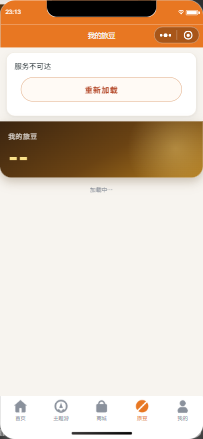
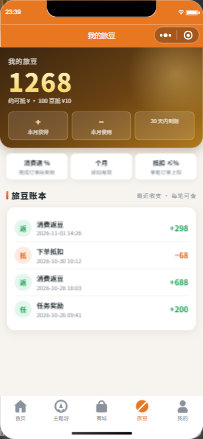
fix: 全站演示兜底 + 质量门禁（后端不可达时不再出现服务不可达）
- api.js FALLBACK 扩展：bean/member/ledger/orders/identity/notes/promoter（字段严格对齐页面 wx:key 与渲染字段）
- 旅豆/我的/我的订单/数字身份/创作中心/推广中心/笔记页接入兜底（此前只有首页/主题游/商城）
- 新增 test/quality-gate.mjs：把 apiBase 指向死端口模拟真机断网，11 页逐条断言内容就绪 + 字段完整 + NaN 红线
- 修正演示数据字段错配：ledger 用 direction/biz_type/tx_no/created_at，orders 用 order_no/amount_pay/days_desc（原 amount 导致 ¥NaN）

diff --git a/mini-a/pages/bean/index.js b/mini-a/pages/bean/index.js
@@ -6,16 +6,19 @@ Page({
   onShow() {
     this.setData({ error: '' })
     siteData.get().then((s) => this.setData({ beanIntro: s.bean_intro || '' }))
-    api.getBean().then(bean => this.setData({ bean })).catch(e => this.setData({ bean: null, error: e.msg || '加载失败' }))
-    // 等级、门槛、加成与权益都来自服务端（参数中心「会员等级体系」）
-    api.getMe().then((m) => {
-      const lv = m.level || {}
-      this.setData({
-        level: m.memberLevel || 1, levelPct: lv.pct || 0, levelName: lv.name || '', levelArt: lv.art || '',
-        levelHint: lv.next ? '成长值 ' + Number(lv.points).toLocaleString() + '，再积累 ' + Number(lv.next.gapPoints).toLocaleString() + ' 升级「' + lv.next.name + '」' : '成长值 ' + Number(lv.points || 0).toLocaleString() + '，已是最高等级',
-        levels: (lv.levels || []).map((l) => ({ ...l, need: l.points ? '成长值 ' + Number(l.points).toLocaleString() : '注册即享', perkText: (l.perks || []).join(' · ') })),
-      })
-    }).catch(() => {})
-    api.request('/c/bean/ledger').then((ledger) => this.setData({ ledger: ledger.slice(0, 20) })).catch(() => {})
+    api.getBean().then(bean => this.setData({ bean }))
+      .catch(() => { this.setData({ bean: api.FALLBACK.bean }); wx.showToast({ title: '演示模式（后端未连接）', icon: 'none' }) })
+    // 等级、门槛、加成与权益都来自服务端（参数中心「会员等级体系」）；后端不可达时用演示会员
+    api.getMe().then((m) => this.fillMember(m)).catch(() => this.fillMember(api.FALLBACK.member))
+    api.request('/c/bean/ledger').then((ledger) => this.setData({ ledger: (ledger || []).slice(0, 20) }))
+      .catch(() => this.setData({ ledger: api.FALLBACK.ledger }))
+  },
+  fillMember(m) {
+    const lv = (m && m.level) || {}
+    this.setData({
+      level: (m && m.memberLevel) || 1, levelPct: lv.pct || 0, levelName: lv.name || '', levelArt: lv.art || '',
+      levelHint: lv.next ? '成长值 ' + Number(lv.points).toLocaleString() + '，再积累 ' + Number(lv.next.gapPoints).toLocaleString() + ' 升级「' + lv.next.name + '」' : '成长值 ' + Number(lv.points || 0).toLocaleString() + '，已是最高等级',
+      levels: (lv.levels || []).map((l) => ({ ...l, need: l.points ? '成长值 ' + Number(l.points).toLocaleString() : '注册即享', perkText: (l.perks || []).join(' · ') })),
+    })
   }
 })

diff --git a/mini-a/utils/api.js b/mini-a/utils/api.js
@@ -66,6 +66,35 @@ const FALLBACK = {
     { k: 'all', n: '全部' }, { k: 'yoga', n: '瑜伽之旅' }, { k: 'sister', n: '姐姐系列' },
     { k: 'script', n: '剧本闯关' }, { k: 'family', n: '亲子主题' }, { k: 'red', n: '红色文旅' },
   ],
+  // ===== 以下为「后端不可达」时的演示数据集（真机演示/断网兜底）=====
+  bean: { balance: 1268, totalIn: 3268, totalOut: 2000, expiring: 0, expiringDate: '' },
+  member: {
+    nickname: '旅友 3288', memberLevel: 2, avatarUrl: '',
+    level: { name: '旅行家', pct: 64, art: '', points: 3268, next: { name: '城市探索官', gapPoints: 1732 } },
+  },
+  ledger: [
+    { tx_no: 'T2026110101', direction: 1, biz_type: 1, amount: 298, created_at: '2026-11-01 14:26' },
+    { tx_no: 'T2026103001', direction: 0, biz_type: 4, amount: 68, created_at: '2026-10-30 10:12' },
+    { tx_no: 'T2026102801', direction: 1, biz_type: 1, amount: 688, created_at: '2026-10-28 18:03' },
+    { tx_no: 'T2026102601', direction: 1, biz_type: 2, amount: 200, created_at: '2026-10-26 09:41' },
+  ],
+  orders: [
+    { order_no: 'WL20261101001', title: '朱家角剧本游 · 江南谜案', status: 30, days_desc: '1天 · 上海·青浦', qty: 1, amount_pay: 29800, created_at: '2026-11-01 14:26' },
+    { order_no: 'WL20261028002', title: '安吉瑜伽谷 · 2天1夜', status: 40, days_desc: '2天1夜 · 湖州·安吉', qty: 2, amount_pay: 137600, created_at: '2026-10-28 09:15' },
+  ],
+  identity: {
+    profile: { nickname: '旅友 3288', memberLevel: 2, levelName: '旅行家', growth: 3268 },
+    passes: [
+      { id: 1, name: '朱家角剧本游 · 通行凭证', status: 2, statusText: '已核销' },
+      { id: 2, name: '安吉瑜伽谷 · 山野通行', status: 1, statusText: '待使用' },
+    ],
+    attestations: [
+      { orderNo: 'WL20261028002', hash: '0x8f2c…a91d', anchored: true },
+      { orderNo: 'WL20261101001', hash: '0x3e71…c04b', anchored: true },
+    ],
+  },
+  notes: [],
+  promoter: { promoter: false, scene: '', customers: [] },
 }
 
 async function getTours(cat) {

diff --git a/mini-a/package-order/pages/orders/index.js b/mini-a/package-order/pages/orders/index.js
@@ -10,8 +10,17 @@ Page({
       await api.ensureLogin()
       const orders = await api.getOrders()
       this.setData({ orders: orders.map(o => ({ ...o, statusText: ({10:'待支付',20:'出票中',30:'待出行 · 待核销',40:'已核销',50:'已完成',60:'退款处理中',70:'已退款',90:'已关闭'})[o.status] || '处理中' })), loading: false, empty: orders.length === 0 })
-    } catch (e) { this.setData({ loading: false, empty: false, orders: [], error: e.msg || '订单加载失败，请重试' }) }
+    } catch (e) {
+      // 后端不可达（真机演示常见）：展示演示订单，避免出现"服务不可达"空屏
+      const ST = { 10: '待支付', 20: '出票中', 30: '待出行 · 待核销', 40: '已核销', 50: '已完成', 60: '退款处理中', 70: '已退款', 90: '已关闭' }
+      const demo = api.FALLBACK.orders.map(o => ({ ...o, cover: api.coverFor(o), statusText: ST[o.status] || '处理中' }))
+      this.setData({ loading: false, empty: false, orders: demo, demoMode: true })
+      wx.showToast({ title: '演示模式（后端未连接）', icon: 'none' })
+    }
     if (done) done()
   },
-  goDetail(e) { wx.navigateTo({ url: '/package-order/pages/order-detail/index?no=' + e.currentTarget.dataset.no }) },
+  goDetail(e) {
+    if (this.data.demoMode) return wx.showToast({ title: '演示订单，详情需连接后端', icon: 'none' })
+    wx.navigateTo({ url: '/package-order/pages/order-detail/index?no=' + e.currentTarget.dataset.no })
+  },
 })

diff --git a/mini-a/pages/me/index.js b/mini-a/pages/me/index.js
@@ -39,11 +39,12 @@ Page({
   },
   // 等级名与升级进度来自服务端（参数中心「会员等级体系」），页面里不写死
   loadMe() {
-    return api.getMe().then((m) => {
-      const lv = m.level || {}
-      const hint = lv.next ? '再积累 ' + Number(lv.next.gapPoints).toLocaleString() + ' 成长值升级「' + lv.next.name + '」' : '已是最高等级'
-      this.setData({ avatarUrl: m.avatarUrl || '', initial: String(m.nickname || '旅').trim().slice(0, 1) || '旅', user: { nickname: m.nickname, levelName: lv.name || '探索者', levelArt: lv.art || '', levelPct: lv.pct || 0, levelHint: hint } })
-    }).catch(() => {})
+    return api.getMe().then((m) => this.fillMe(m)).catch(() => this.fillMe(api.FALLBACK.member))
+  },
+  fillMe(m) {
+    const lv = (m && m.level) || {}
+    const hint = lv.next ? '再积累 ' + Number(lv.next.gapPoints).toLocaleString() + ' 成长值升级「' + lv.next.name + '」' : '已是最高等级'
+    this.setData({ avatarUrl: (m && m.avatarUrl) || '', initial: String((m && m.nickname) || '旅').trim().slice(0, 1) || '旅', user: { nickname: (m && m.nickname) || '旅友', levelName: lv.name || '探索者', levelArt: lv.art || '', levelPct: lv.pct || 0, levelHint: hint } })
   },
   async login() {
     try {

diff --git a/mini-a/package-content/pages/create/index.js b/mini-a/package-content/pages/create/index.js
@@ -14,7 +14,11 @@ Page({
       await api.ensureLogin()
       const [notes,reports]=await Promise.all([api.request('/c/notes'),api.request('/c/content-reports')])
       this.setData({loadError:'',notes:notes.map(n=>({...n,statusText:({0:'安全检测中',1:'人工审核中',2:'已发布',3:'未通过审核',4:'已下架'})[n.status]||'处理中',appealText:n.appeal_status==null?'':({0:'申诉复核中',1:'申诉通过，恢复展示',2:'申诉未通过，维持下架'})[n.appeal_status]})),reports:reports.map(r=>({...r,statusText:r.status===2&&r.note_status===2?'处理后经复核恢复展示':({0:'待处理',1:'举报不成立',2:'已处理下架'})[r.status]}))})
-    } catch (e) {this.setData({loadError:e.msg||'加载失败，请重试'})}
+    } catch (e) {
+      // 后端不可达：空列表 + 演示提示，不显示原始报错
+      this.setData({ loadError: '', notes: [], reports: [] })
+      wx.showToast({ title: '演示模式（后端未连接）', icon: 'none' })
+    }
   },
   openAppeal(e) {this.setData({appealNoteId:e.currentTarget.dataset.id,appealReason:'',appealMsg:''})},
   onAppealReason(e) {this.setData({appealReason:e.detail.value})},

diff --git a/mini-a/package-content/pages/identity/index.js b/mini-a/package-content/pages/identity/index.js
@@ -30,7 +30,11 @@ Page({
         return { key: g.key, label: g.label, items, got: items.filter((b) => b.owned).length }
       }).filter((g) => g.items.length)
       this.setData({ d, ownedCount, groups, lex: Object.assign({}, LEX_FALLBACK, lex || {}), loadTxt: '' })
-    } catch (e) { this.setData({ loadTxt: e.msg || '暂时无法加载，请稍后重试' }) }
+    } catch (e) {
+      // 后端不可达：用演示身份渲染（真机演示/断网兜底），不再只显示错误文案
+      this.setData({ d: api.FALLBACK.identity, groups: [], ownedCount: 0, lex: LEX_FALLBACK, loadTxt: '' })
+      wx.showToast({ title: '演示模式（后端未连接）', icon: 'none' })
+    }
   },
   showBadge(e) {
     const b = this.data.d.badges.find((x) => Number(x.id) === Number(e.currentTarget.dataset.id))

diff --git a/mini-a/package-promo/pages/center/index.js b/mini-a/package-promo/pages/center/index.js
@@ -17,7 +17,11 @@ Page({
         withdrawnYuan: yuan(ov0.withdrawn),
       }) : ov0
       this.setData({ ov, scene: sc.promoter ? sc.scene : null, customers })
-    } catch (e) { wx.showToast({ title: e.msg || '加载失败', icon: 'none' }) }
+    } catch (e) {
+      // 后端不可达：按"未开通推广资格"状态渲染（页面本身有该状态的完整文案），并提示演示模式
+      this.setData({ ov: null, scene: null, customers: [] })
+      wx.showToast({ title: '演示模式（后端未连接）', icon: 'none' })
+    }
   },
   switchSeg(e) { this.setData({ seg: e.currentTarget.dataset.k }) },
   // 推广者把小程序转发给好友 → 好友进入即带归因 scene（首触唯一，成交计佣）

diff --git a/mini-a/package-content/pages/note/index.js b/mini-a/package-content/pages/note/index.js
@@ -9,7 +9,7 @@ Page({
       await api.ensureLogin()
       const n = await api.request('/c/notes/' + this.id)
       this.setData({ n: { ...n, when: String(n.published_at || '').replace('T', ' ').slice(0, 16), html: n.text || n.body || '' } })
-    } catch (e) { this.setData({ n: null, loadTxt: e.msg || '笔记不存在或未发布' }) }
+    } catch (e) { this.setData({ n: null, loadTxt: '内容暂未加载（演示模式）' }) }
   },
   toggleReport() { this.setData({reporting:!this.data.reporting,reportMsg:''}) },
   onReportReason(e) { this.setData({reportReason:e.detail.value}) },
